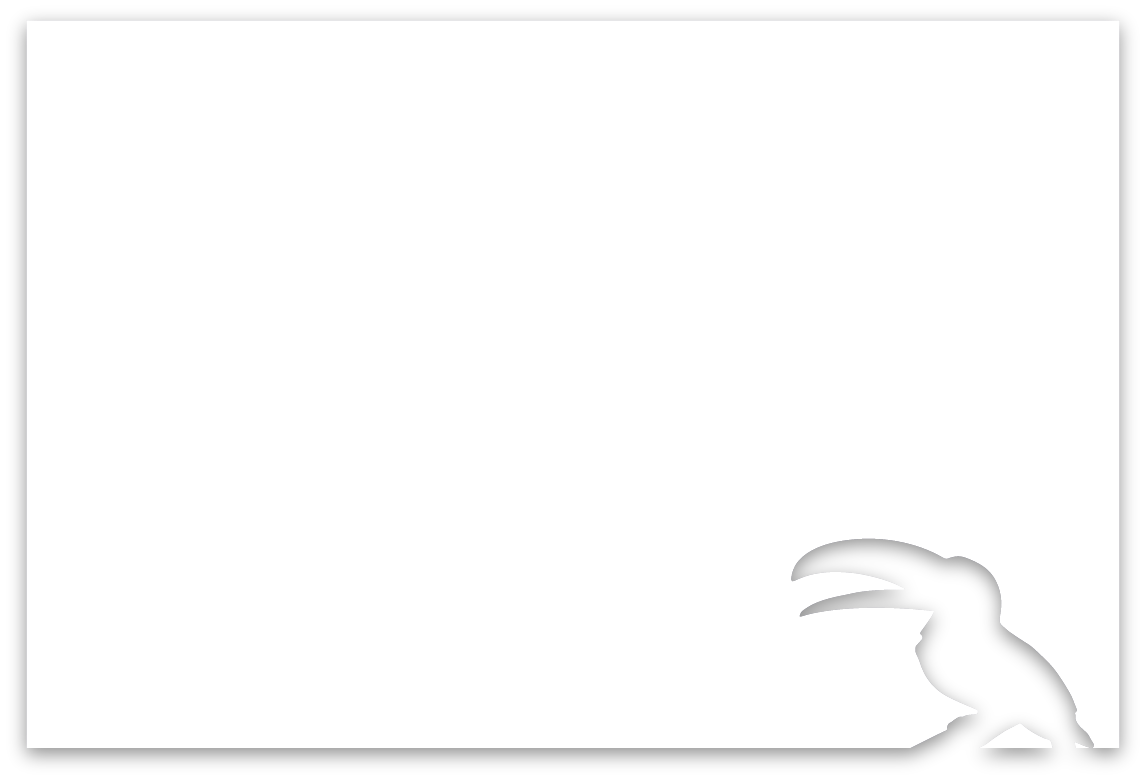
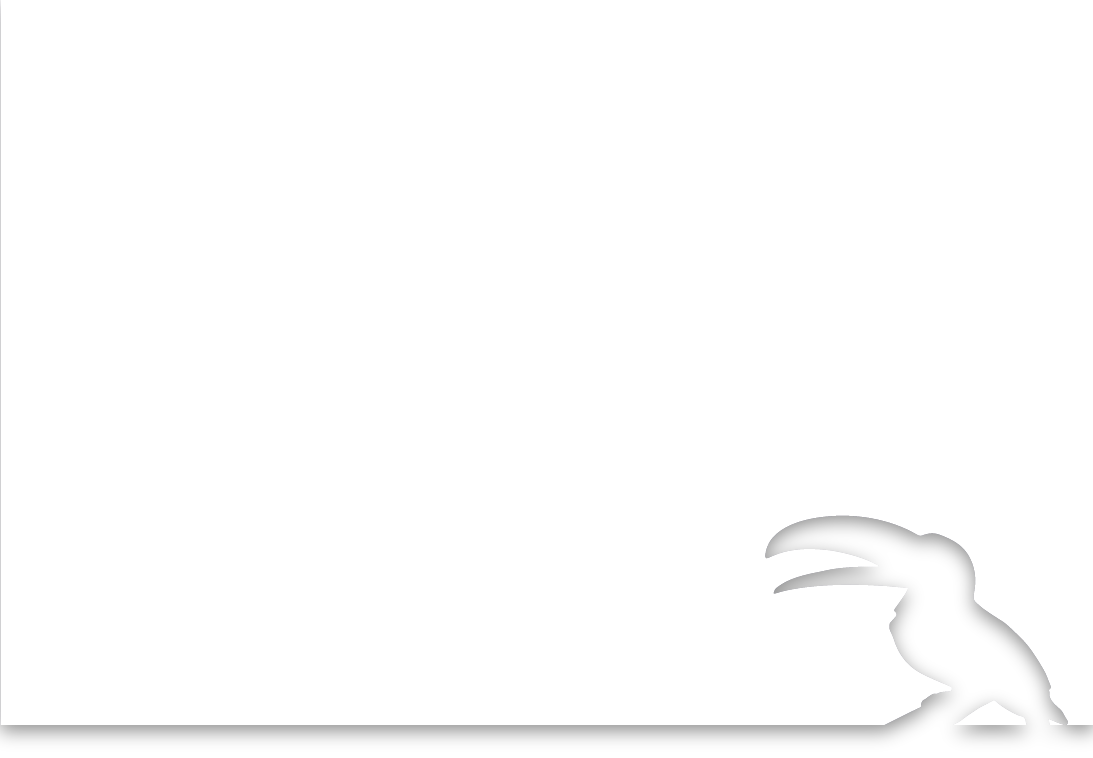
section rational

Changed region(s): [[0.6844, 0.0303, 1.0, 0.971], [0.0, 0.0303, 0.0311, 0.971], [0.7777, 0.7889, 0.8399, 0.8799]]

diff --git a/src/app/css/setionRational.module.css b/src/app/css/setionRational.module.css
@@ -20,40 +20,59 @@ section.section4 h2 {
 
 .card_top {
   position: relative;
+  padding: 0 1em;
 }
 
 .tucan_card {
-  background-image: url(../../../public/images/backtucan.png);
+  /* background-image: url(../../../public/images/backtucan.png); */
   width: fit-content;
-    aspect-ratio: 1146/781;
+  /* aspect-ratio: 1146/781; */
   background-size: cover;
   background-position: center;
   background-repeat: no-repeat;
-  padding: 1.5em 1em 5em;
+  padding: 2em 2em 0;
   position: relative;
   font-size: 15px;
   z-index: 3;
+  background-color: white;
+  margin: 1em 0 9em;
+}
+
+.tucan_card::after {
+  background-image: url(../../../public/images/backtucan.png); 
+  background-size: cover;
+  background-position: center;
+  background-repeat: no-repeat;
+  content: " ";
+  aspect-ratio: 1146/781; 
+  width: 100%;
+  left: 0;
+  bottom: -9.5em;
+  position: absolute;
+
 }
 
 .tucan_card .scrollArea {
-  
-  overflow: scroll;
   height: 100%;
+  overflow: auto;
+  font-size: var(--fontSizeM);
 }
 
 .tucan_card p {
   padding: 0 1.5em 1.5em;
-  font-size: 0.9em;
   z-index: 2;
   position: relative;
 }
 
+.tucan_card p span {
+  vertical-align: super;
+}
 
 .tucan_card::before {
   content: " ";
   position: absolute;
   height: 5.5em;
-  width: 5em;
+  width: 3em;
   display: block;
   top: 6em;
   left: 0;
@@ -63,6 +82,11 @@ section.section4 h2 {
   background-image: url(../../../public/images/hojas5.png);
   background-size: contain;
   z-index: 1;
+}
+
+.small {
+  font-size: 14px;
+  text-align: left;
 }
 
 .card_top::after {
@@ -82,7 +106,6 @@ section.section4 h2 {
   overflow: hidden;
 }
 
-
 .card_top::before {
   content: " ";
   position: absolute;
@@ -98,8 +121,6 @@ section.section4 h2 {
   background-size: contain;
   z-index: 1;
 }
-
-
 
 .wave {
   display: block;
@@ -133,21 +154,19 @@ section.section4 h2 {
   border-radius: 100%;
   width: 100%;
   height: 300px;
-  
+
   background-image: url(../../../public/images/carton2.png);
   left: -25%;
   top: -240px;
   clip-path: ellipse(100% 15% at -15% 100%);
 }
 
-
-
-@media (min-width: 800px) { 
+@media (min-width: 800px) {
   .tucan_card {
+    padding: 2em 2em 0;
+  }
 
-    padding: 2em 2em 8em;
-
+  .tucan_card::before {
+    width: 5em;
   }
 }
-
-

diff --git a/src/app/css/setionFinancingInstruments.module.css b/src/app/css/setionFinancingInstruments.module.css
@@ -4,15 +4,15 @@ section.sectionFinancingInstruments {
   text-align: center;
   background-image: url(../../../public/images/backgreen.png), url(../../../public/images/plantwhite.png), url(../../../public/images/steps.png);
   /* background-image: url(../../../public/images/plantwhite.png); */
-  background-size: cover, 12em, 12em ;
+  background-size: cover, 12em, 12em;
   background-repeat: repeat, no-repeat, no-repeat;
   background-attachment: local, fixed, local;
   background-blend-mode: soft-light;
-  background-position: center, top left , bottom 2em right 2em;
+  background-position: center, top left, bottom 2em right 2em;
 
 }
 
-section.sectionFinancingInstruments h2{
+section.sectionFinancingInstruments h2 {
   padding: 1.5em;
 }
 
@@ -49,8 +49,8 @@ section.sectionFinancingInstruments h2{
 .financingInstruments li::after {
   position: absolute;
   width: 8em;
-    height: 8em;
-    filter: drop-shadow(2px 4px 6px #333);
+  height: 8em;
+  filter: drop-shadow(2px 4px 6px #333);
   top: -1em;
   background-size: contain;
   background-repeat: no-repeat;

diff --git a/src/components/SectionRational.tsx b/src/components/SectionRational.tsx
@@ -19,8 +19,14 @@ const SectionRational = async ({ lng }: { lng: string }) => {
           <div className={Styles.card_top}>
             <div className={Styles.tucan_card}>
               <div className={Styles.scrollArea}>
+                <p>
+                  {t('section4.text1_part1')}
+                  <span>{t('section4.text1_super')}</span>
+                  {t('section4.text1_part2')}
+                </p>
                 <p>{t('section4.text2')}</p>
-                <p>{t('section4.text1')}</p>
+
+                <p className={Styles.small}>{t('section4.text3')}</p>
               </div>
             </div>
           </div>

diff --git a/src/app/css/sectionGovernanceLawEntrepreneurships.module.css b/src/app/css/sectionGovernanceLawEntrepreneurships.module.css
@@ -3,11 +3,9 @@ section.section7 {
   min-height: min-content;
   background-color: var(--olive-background-green);
   position: relative;
-
 }
 
 .totalScreenBackgroung {
-
   position: relative;
   margin: 0 auto;
   min-height: 338px;

diff --git a/src/app/globals.css b/src/app/globals.css
@@ -103,7 +103,7 @@ p {
 h2 {
   text-align: center;
   font-size: var(--fontSizeL);
-  padding: 1em 2em;
+  padding: 1em 2em 0.5em;
 }
 
 /* JM Responsive*/
